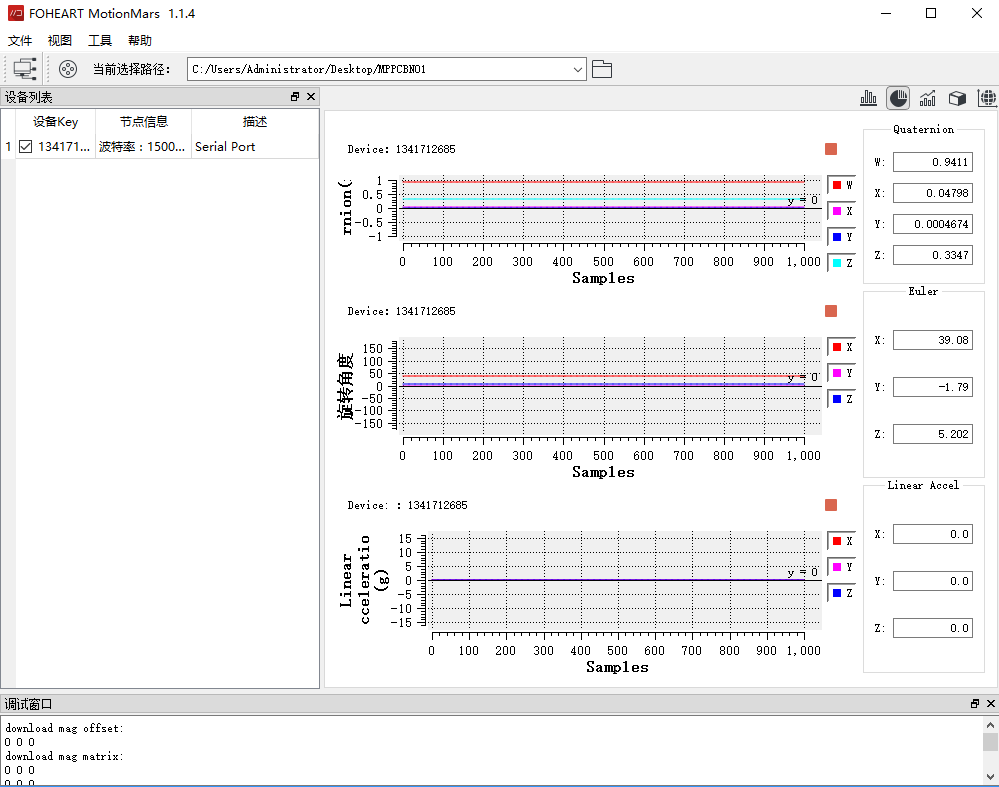
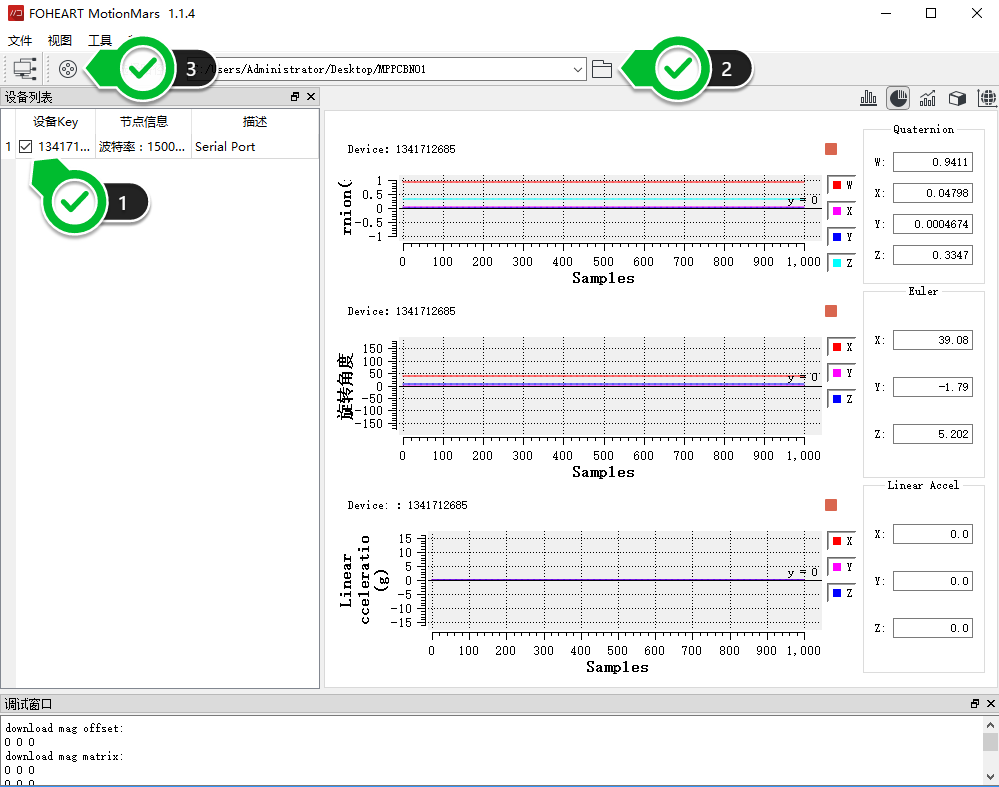
modify readme

Changed region(s): [[0.6206, 0.0305, 0.7758, 0.1525], [0.031, 0.183, 0.1552, 0.305], [0.0931, 0.0305, 0.2172, 0.1525]]

diff --git a/README.md b/README.md
@@ -1,4 +1,87 @@
 # MotionMars Docs
-
-
 惯性测量单元客户端软件帮助文档
+
+<div align=center>
+<img src="https://raw.githubusercontent.com/FOHEART/MotionMarsHelp/master/img/3dcube.png"/>
+</div>
+
+## 1、驱动安装
+驱动文件路径为MotionMars安装文件夹下的**FOHEART MP Driver**文件夹。<br>
+驱动安装成功后在计算机的设备管理器中会出现下图箭头所示设备：<br>
+
+<div align=center>
+<img src="https://raw.githubusercontent.com/FOHEART/MotionMarsHelp/master/img/deviceinpc.png"/>
+</div>
+
+## 2、设备检测
+单击下图箭头所示的按钮，等待1秒左右会在设备列表中出现连接上的设备，如果未出现设备，请检查设备驱动是否正常安装。<br>
+成功识别的设备如下图：
+
+<div align=center>
+<img src="https://raw.githubusercontent.com/FOHEART/MotionMarsHelp/master/img/detectdevice.png"/>
+</div>
+
+单击左侧设备，以显示右侧绘图区域：
+
+<div align=center>
+<img src="https://raw.githubusercontent.com/FOHEART/MotionMarsHelp/master/img/clickdevice.png"/>
+</div>
+
+右键单击设备，在弹出菜单中选择开始：
+
+<div align=center>
+<img src="https://raw.githubusercontent.com/FOHEART/MotionMarsHelp/master/img/start100hz.png"/>
+</div>
+
+## 3、窗体显示
+
+MotionMars共有5个窗体，分别为：<br>
+1. 姿态原始数据，分别为加速度、角速度、磁场强度。
+2. 姿态融合角，分别为四元数、欧拉角，线性加速度（尚未使用）。
+3. 其它原始数据，分别为大气压强（尚未使用）、海拔高度（尚未使用）、温度（尚未使用）。
+4. 3D显示，使用3D图形显示融合姿态角。
+5. 磁场拟合，使用地磁场拟合数据，以获取无漂移的航向信息。
+
+## 4、磁场校准
+
+准备工作：将MotionMars节点远离磁干扰，例如手机、智能手表、铁等永磁体。<br>
+在最后一个页面，点击**计算**按钮，开始进行新的磁场校准流程。<br>
+将MotionMars节点沿XYZ三轴匀速旋转，尽量使获取到的磁场点在空间绘制出一个均匀的椭球体，这个过程大概需要60s。<br>
+整个过程如下面四个图所示：<br>
+
+<div align=center>
+<img src="https://raw.githubusercontent.com/FOHEART/MotionMarsHelp/master/img/magcalibration1.png"/>
+</div>
+
+<div align=center>
+<img src="https://raw.githubusercontent.com/FOHEART/MotionMarsHelp/master/img/magcalibration2.png"/>
+</div>
+
+<div align=center>
+<img src="https://raw.githubusercontent.com/FOHEART/MotionMarsHelp/master/img/magcalibration3.png"/>
+</div>
+
+**校准完成。**
+<div align=center>
+<img src="https://raw.githubusercontent.com/FOHEART/MotionMarsHelp/master/img/magcalibration4.png"/>
+</div>
+
+磁场校准完成后，就可以得到无漂移的XYZ三轴角度。
+
+## 5、数据保存
+
+MotionMars可以同时录制保存多个节点的原始数据与解算数据。<br>
+1. 选中设备之前的复选框，如下图中1号箭头所示。
+2. 选中需要保存到的地址，如下图中2号箭头所示。
+3. 点击录制按钮，如下图中3号箭头所示。
+
+<div align=center>
+<img src="https://raw.githubusercontent.com/FOHEART/MotionMarsHelp/master/img/clicksave.png"/>
+</div>
+
+另外，在工具->选项中，还可以自定义导出数据的格式，例如名称规则、分隔符、占位符、包含数据、时间戳等。
+
+<div align=center>
+<img src="https://raw.githubusercontent.com/FOHEART/MotionMarsHelp/master/img/config.png"/>
+</div>
+
